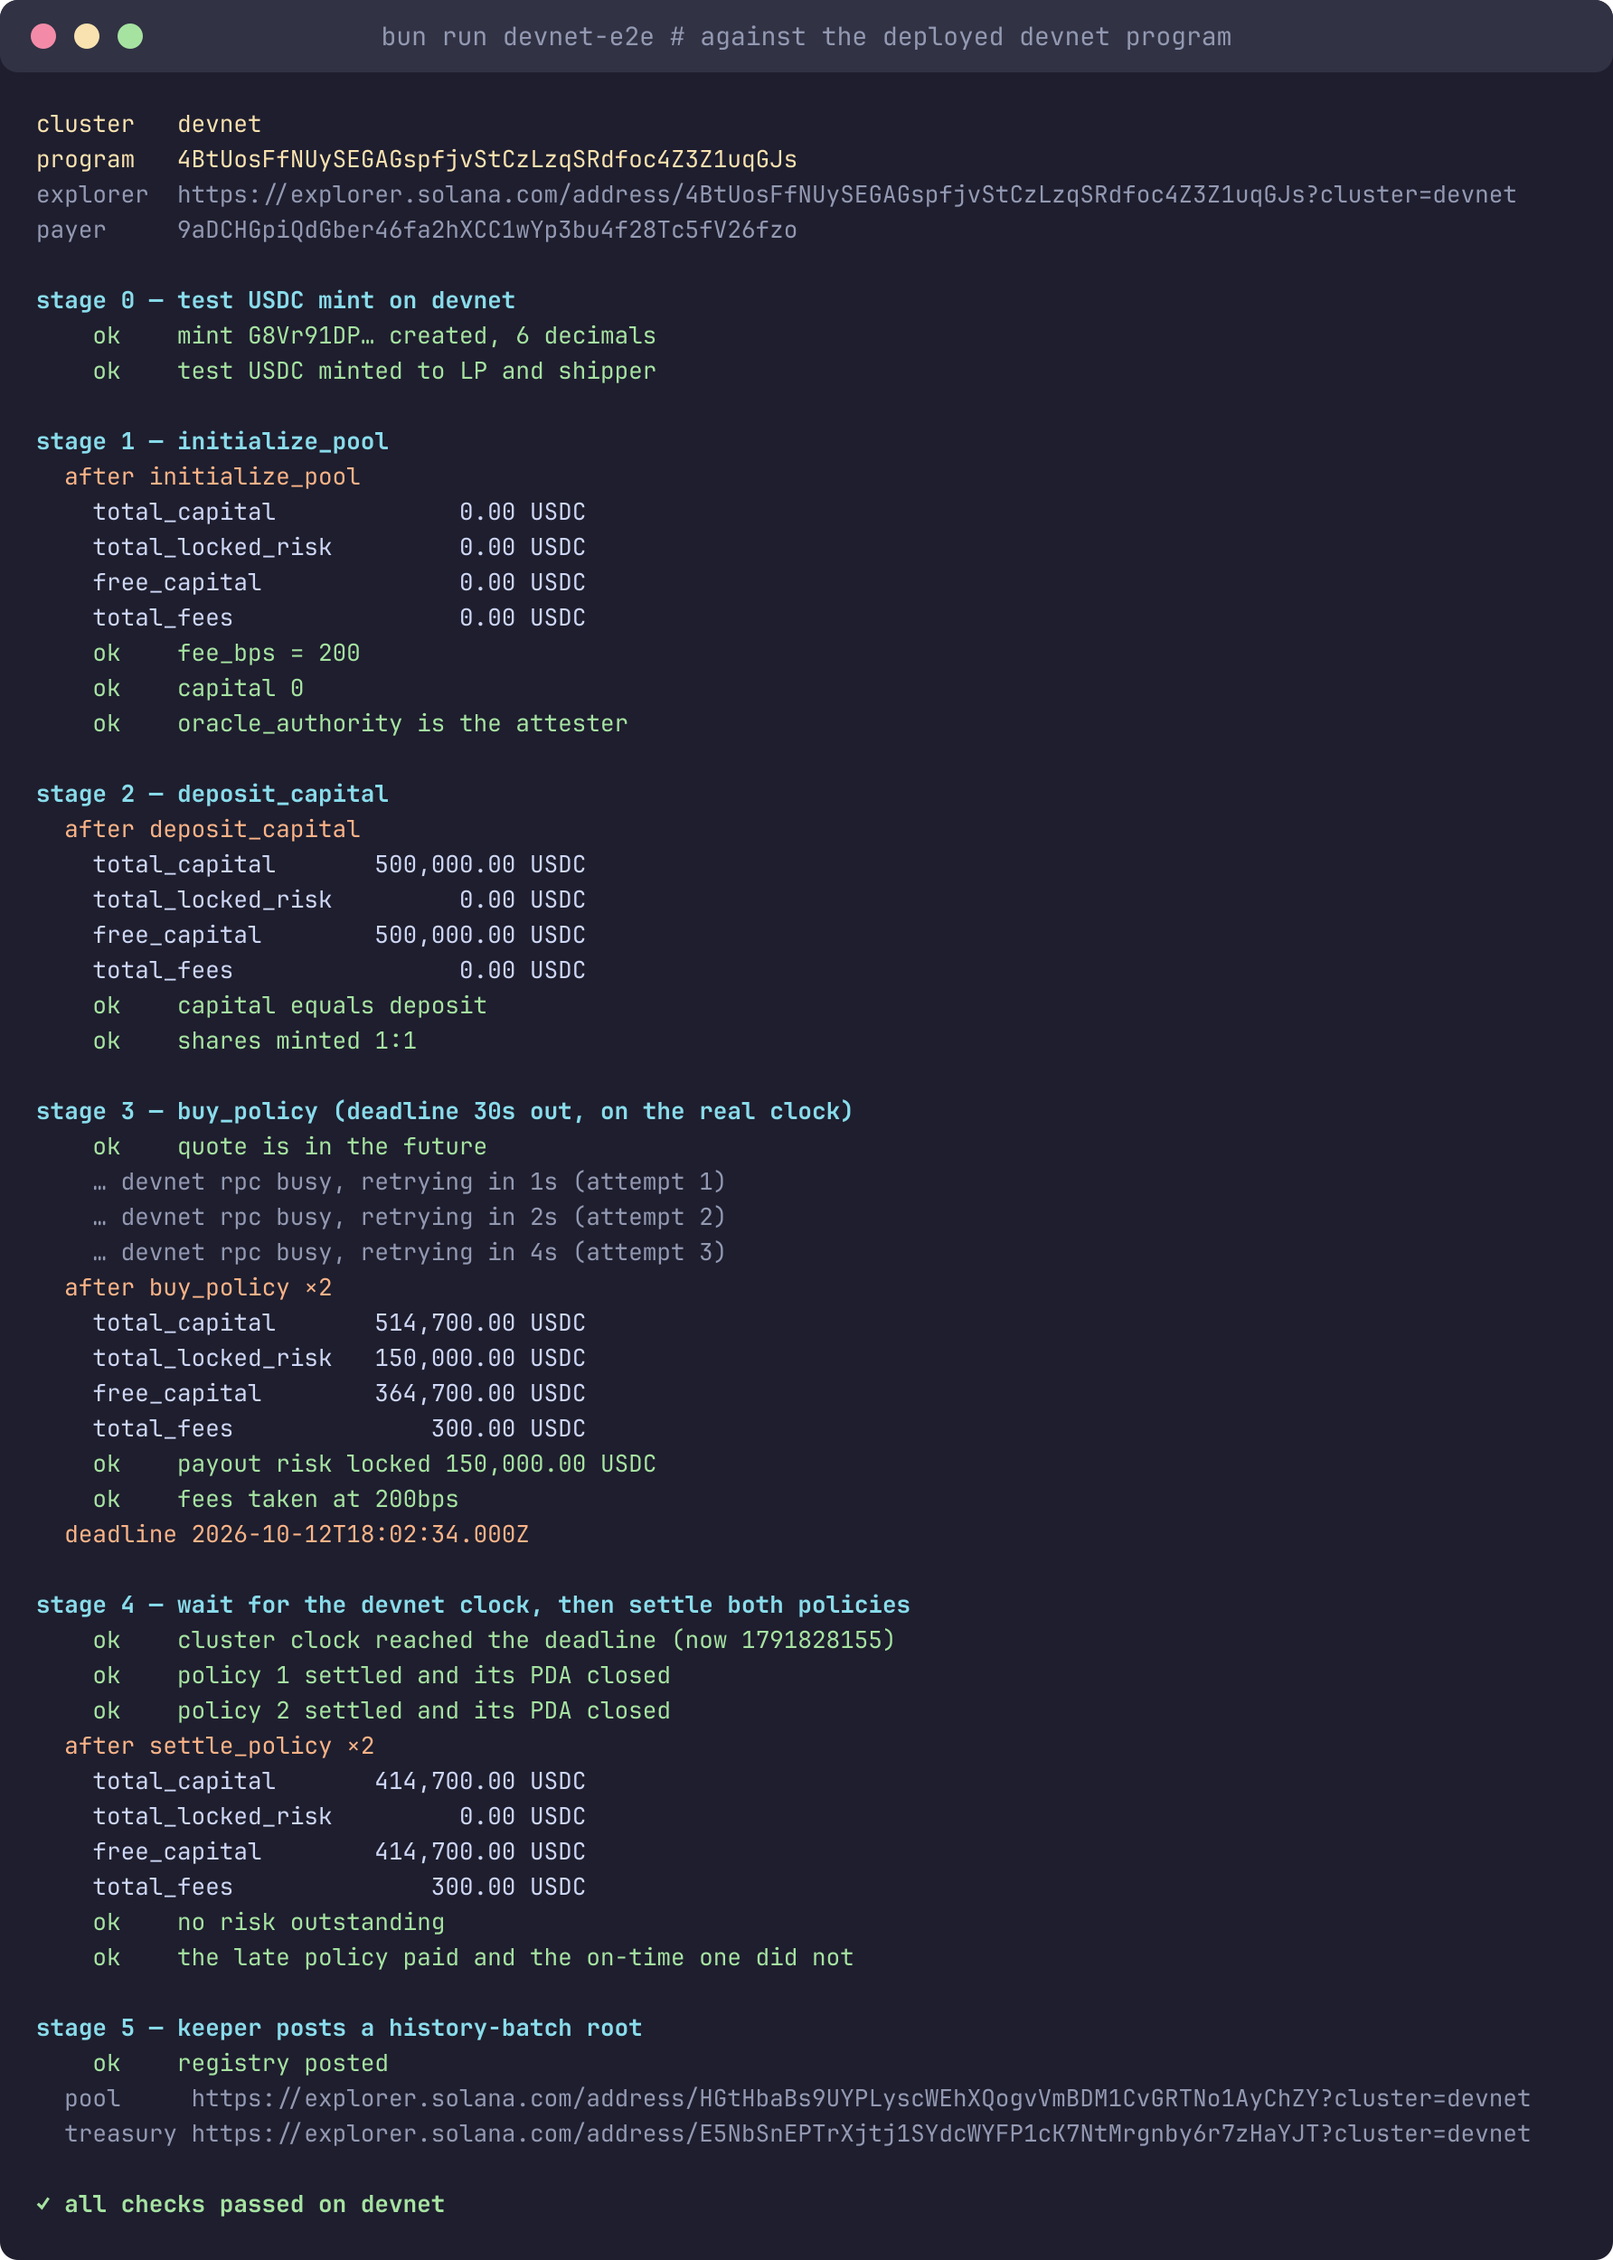
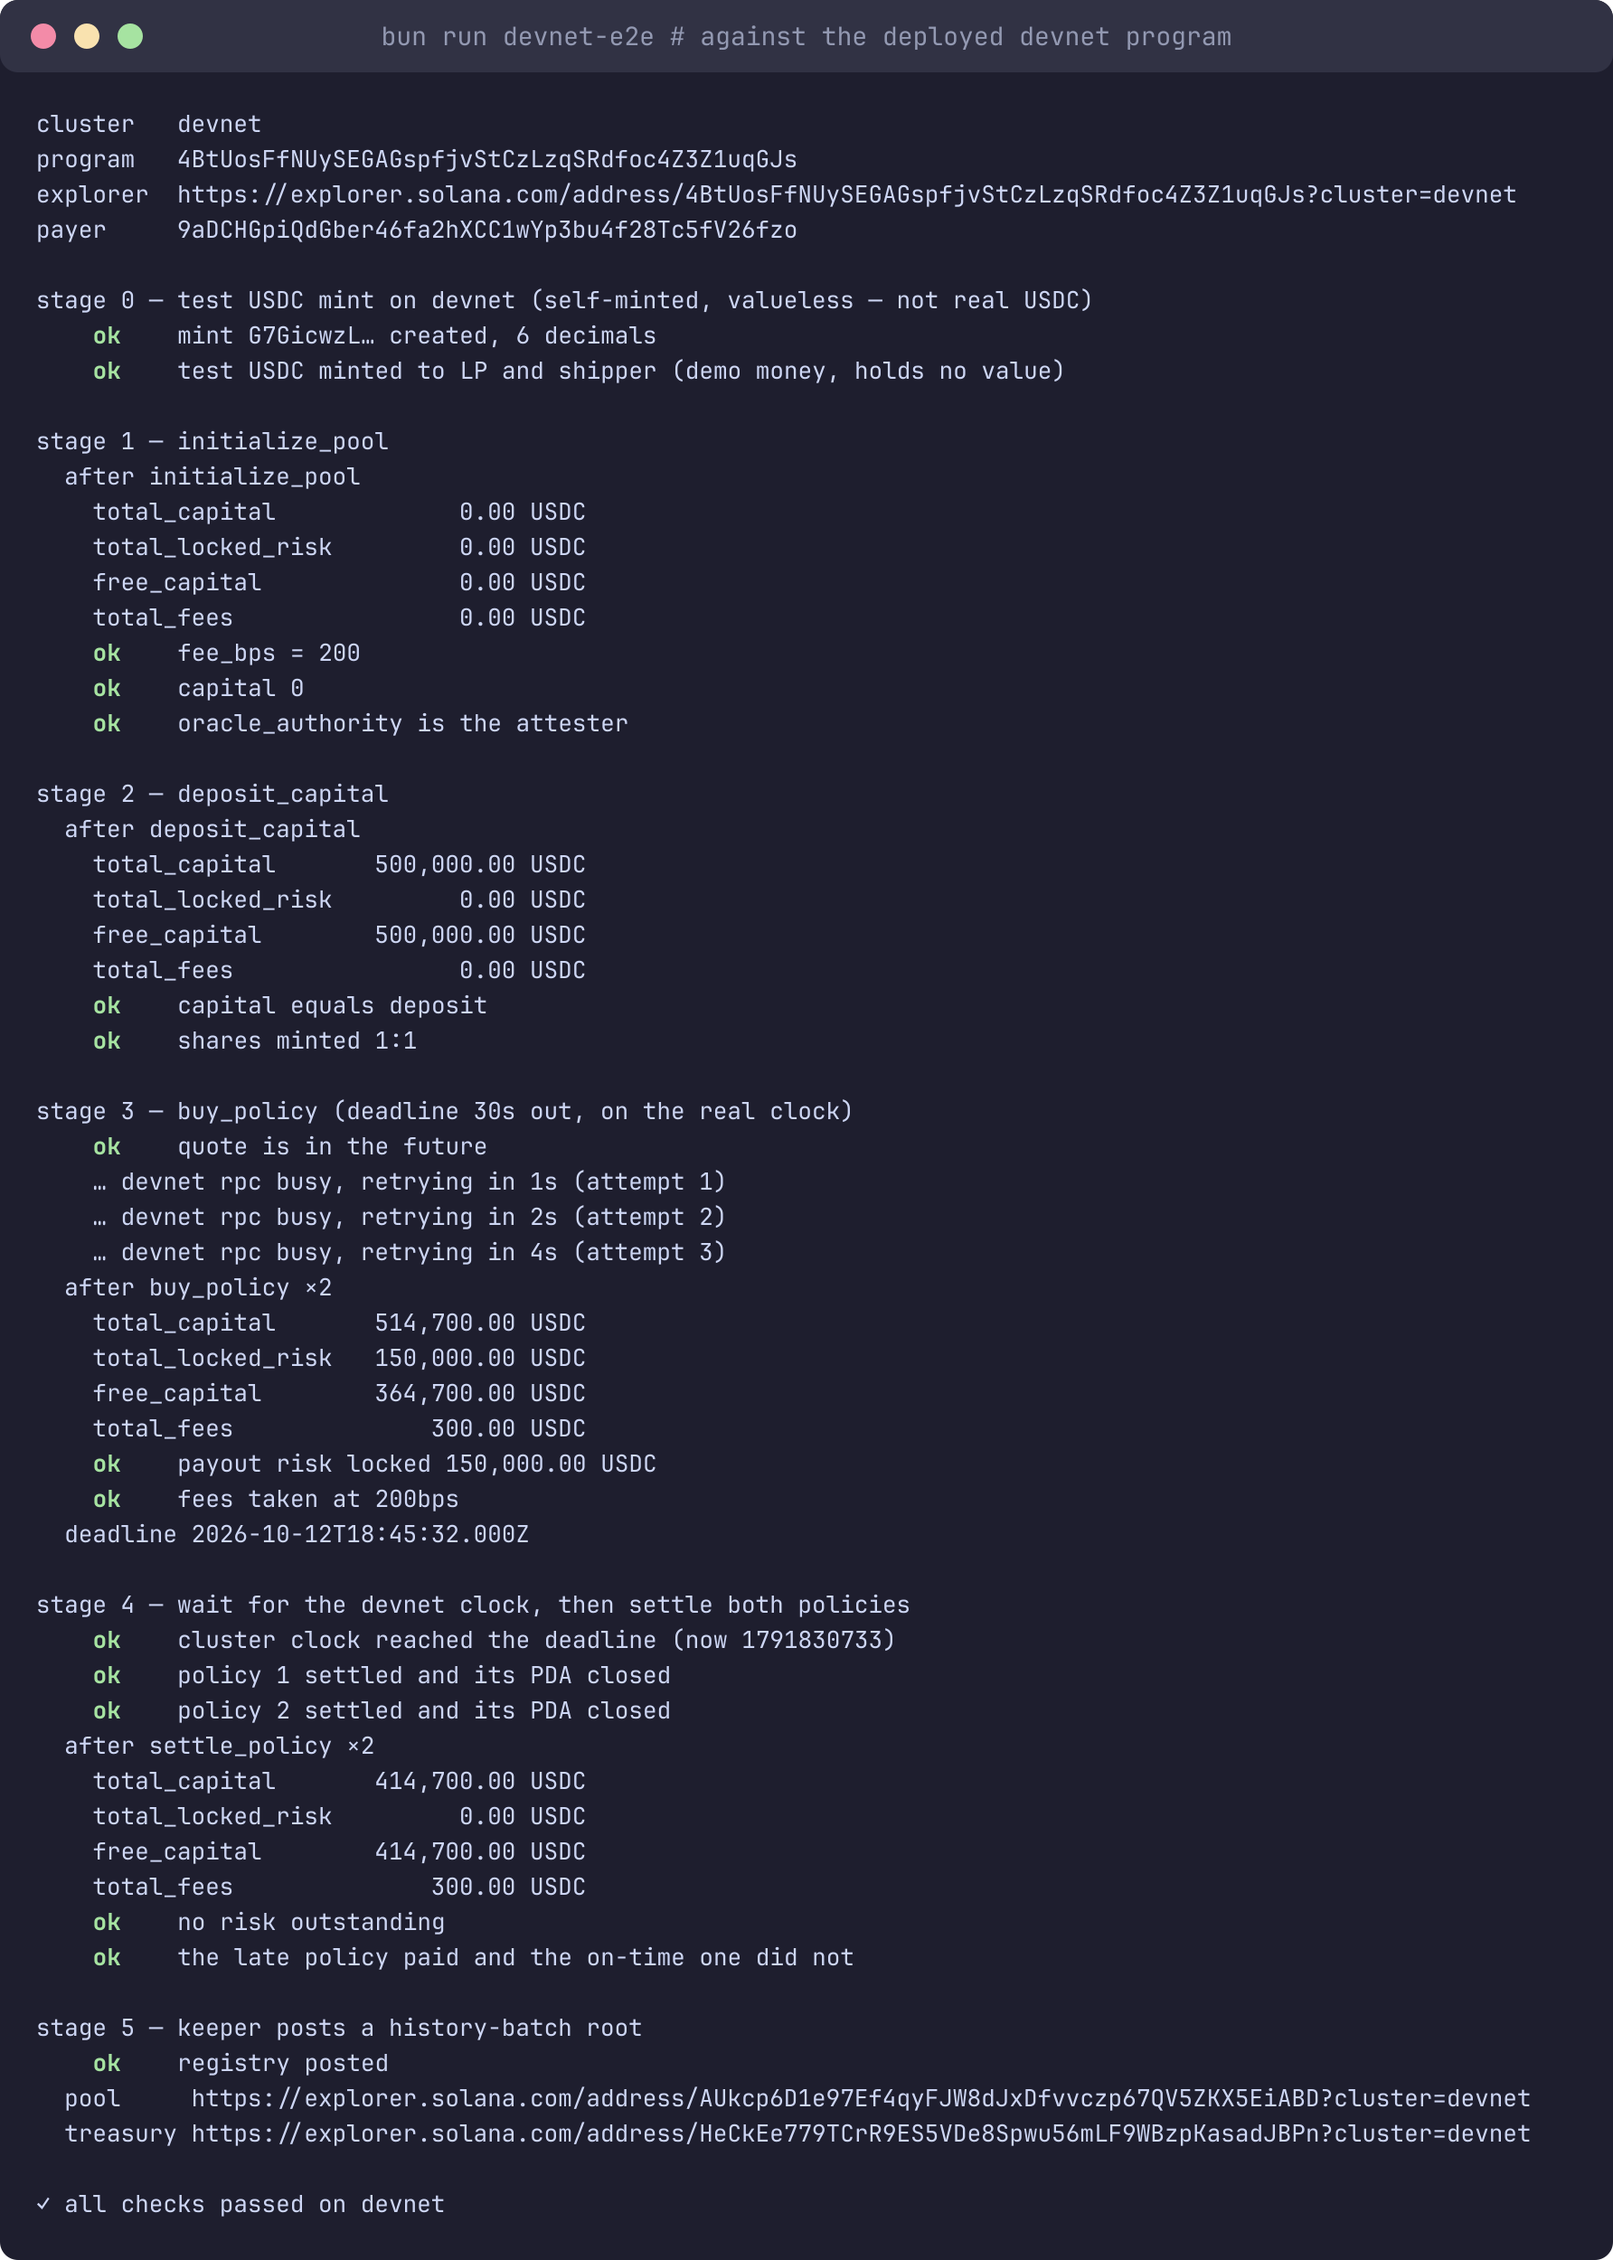
docs(freight-delay): state that the devnet demo mints its own test tokens (CHA-38)

diff --git a/freight_delay/scripts/devnet-e2e.ts b/freight_delay/scripts/devnet-e2e.ts
@@ -12,6 +12,10 @@
  *   anchor deploy --provider.cluster devnet
  *   bun run devnet-e2e
  *
+ * The USDC in this run is demo money: a 6-decimal token the script mints for
+ * itself, with no value, no faucet and no relation to Circle's USDC. Every run
+ * creates a fresh mint, so no run touches anyone else's balances.
+ *
  * Env: DEVNET_KEYPAIR (default `~/.config/solana/id.json`) pays for everything.
  */
 
@@ -68,9 +72,15 @@ const explorer = (path: string) => `https://explorer.solana.com/${path}?cluster=
 
 let failures = 0;
 const check = (label: string, ok: boolean) => {
-  console.log(`    ${ok ? "ok  " : "FAIL"}  ${label}`);
+  console.log(`    ${ok ? green("ok  ") : red("FAIL")}  ${label}`);
   if (!ok) failures++;
 };
+const paint = (code: string, text: string) => `\x1b[${code}m${text}\x1b[0m`;
+const green = (t: string) => paint("32;1", t);
+const red = (t: string) => paint("31;1", t);
+const cyan = (t: string) => paint("36;1", t);
+const dim = (t: string) => paint("2", t);
+
 const usdc = (v: bigint) =>
   `${(Number(v) / 1e6).toLocaleString("en-US", { minimumFractionDigits: 2 })} USDC`;
 
@@ -91,16 +101,18 @@ const client = await createClient()
   .use(solanaDevnetRpc({ rpcUrl, maxConcurrency: 1 }));
 
 /** Sends with backoff: the public devnet RPC throttles bursts with HTTP 429, and a
- * refused request submits nothing, so a retry cannot double-apply. */
+ * throttled simulation surfaces as a failed compute-unit estimate. Either way nothing was
+ * submitted, so a retry cannot double-apply. */
 async function send(ixs: Parameters<typeof client.sendTransaction>[0]) {
   for (let attempt = 1; ; attempt++) {
     try {
       return await client.sendTransaction(ixs);
     } catch (e) {
       const message = String((e as Error)?.message ?? e);
-      if (!/429|Too Many Requests|rate limit/i.test(message) || attempt >= 8) throw e;
+      const transient = /429|Too Many Requests|rate limit|Failed to estimate the compute unit/i;
+      if (!transient.test(message) || attempt >= 8) throw e;
       const backoffMs = Math.min(20_000, 1_000 * 2 ** (attempt - 1));
-      console.log(`    … devnet rpc busy, retrying in ${backoffMs / 1000}s (attempt ${attempt})`);
+      console.log(dim(`    … devnet rpc busy, retrying in ${backoffMs / 1000}s (attempt ${attempt})`));
       await new Promise((resolve) => setTimeout(resolve, backoffMs));
     }
   }
@@ -159,7 +171,7 @@ const h: Harness = { client, programId, admin, usdcMint: usdcMint.address, confi
 
 // -------------------------------------------------------------------- stage 0
 
-console.log("\nstage 0 — test USDC mint on devnet");
+console.log(cyan("\nstage 0 — test USDC mint on devnet (self-minted, valueless — not real USDC)"));
 await send([
   getCreateAccountInstruction({
     payer: admin,
@@ -191,11 +203,11 @@ for (const [who, amount] of [
   });
   await send(flattenInstructionPlan(plan));
 }
-check("test USDC minted to LP and shipper", true);
+check("test USDC minted to LP and shipper (demo money, holds no value)", true);
 
 // -------------------------------------------------------------------- stage 1
 
-console.log("\nstage 1 — initialize_pool");
+console.log(cyan("\nstage 1 — initialize_pool"));
 await send([initializePool(h, FEE_BPS, attester, admin.address)]);
 let pool = await readPool(h);
 report("after initialize_pool", pool);
@@ -205,7 +217,7 @@ check("oracle_authority is the attester", pool.oracleAuthority === ATTESTER_ADDR
 
 // -------------------------------------------------------------------- stage 2
 
-console.log("\nstage 2 — deposit_capital");
+console.log(cyan("\nstage 2 — deposit_capital"));
 await send([await depositCapital(h, lp, DEPOSIT)]);
 pool = await readPool(h);
 report("after deposit_capital", pool);
@@ -214,7 +226,7 @@ check("shares minted 1:1", pool.totalShares === DEPOSIT);
 
 // -------------------------------------------------------------------- stage 3
 
-console.log("\nstage 3 — buy_policy (deadline 30s out, on the real clock)");
+console.log(cyan("\nstage 3 — buy_policy (deadline 30s out, on the real clock)"));
 const expectedDelivery = (await chainNow()) + QUOTE_AHEAD;
 const deadline = expectedDelivery;
 check("quote is in the future", expectedDelivery > (await chainNow()));
@@ -246,7 +258,7 @@ console.log(`  deadline ${new Date(Number(deadline) * 1000).toISOString()}`);
 
 // -------------------------------------------------------------------- stage 4
 
-console.log("\nstage 4 — wait for the devnet clock, then settle both policies");
+console.log(cyan("\nstage 4 — wait for the devnet clock, then settle both policies"));
 const reached = await waitForClock(deadline);
 check(`cluster clock reached the deadline (now ${reached})`, reached >= deadline);
 
@@ -283,7 +295,7 @@ check(
 
 // -------------------------------------------------------------------- stage 5
 
-console.log("\nstage 5 — keeper posts a history-batch root");
+console.log(cyan("\nstage 5 — keeper posts a history-batch root"));
 const root = new Uint8Array(32).fill(0xab);
 await send([await postRoot(h, admin, 1n, root, 2n)]);
 const registry = await client.rpc.getAccountInfo(await registryPda(programId, config, 1n)).send();
@@ -291,5 +303,5 @@ check("registry posted", registry.value !== null);
 console.log(`  pool     ${explorer(`address/${config}`)}`);
 console.log(`  treasury ${explorer(`address/${treasury}`)}`);
 
-console.log(failures === 0 ? "\n✓ all checks passed on devnet" : `\n✗ ${failures} check(s) FAILED`);
+console.log(failures === 0 ? green("\n✓ all checks passed on devnet") : red(`\n✗ ${failures} check(s) FAILED`));
 process.exit(failures === 0 ? 0 : 1);

diff --git a/docs/freight_delay/introduction/scope.md b/docs/freight_delay/introduction/scope.md
@@ -89,6 +89,11 @@ reuses the checked-in program keypair, localnet and devnet derive identical
 addresses; `Anchor.toml` defaults to `localnet`, so a devnet deploy passes
 `--provider.cluster devnet` explicitly.
 
+The devnet walkthrough (`freight_delay/scripts/devnet-e2e.ts`) is the only code here
+that spends anything, and it spends nothing of value: it creates its own 6-decimal SPL
+token, mints it to itself, and drives the pool with it. That token is not USDC and holds
+no value; the program's only requirement on a mint is `decimals == 6`.
+
 Test coverage is 38 tests: 31 LiteSVM integration tests and 7 unit tests of the
 ed25519 precompile parsing. The integration suite covers the happy path of every
 instruction, the rejection cases, and one regression per finding from the

diff --git a/README.md b/README.md
@@ -57,6 +57,13 @@ a real cluster, with real fees, real confirmation and the real clock — there i
 time travel on devnet, so it buys a policy whose deadline is seconds away and
 waits for the chain clock to pass it.
 
+**The USDC in the devnet run is demo money.** The script creates its own 6-decimal
+SPL token and mints it to itself — it is not Circle's USDC, it came from no faucet,
+and it is worth nothing. Each run uses a fresh mint, so the pool address differs
+every time and no real balance is touched. The program is indifferent to which mint
+it is given, apart from its decimals: the only mint property the program checks is
+`decimals == 6`.
+
 ## Architecture
 
 One program, six instructions, four PDAs and one token account. Nothing else is

diff --git a/freight_delay/README.md b/freight_delay/README.md
@@ -123,6 +123,11 @@ is.
 
 ![Devnet end-to-end run: all checks passed](assets/devnet-e2e.webp)
 
+The USDC in the devnet run is **demo money**: `scripts/devnet-e2e.ts` creates its own
+6-decimal SPL token and mints it to itself. It is not Circle's USDC, it came from no
+faucet, and it holds no value — a fresh mint per run, so no real balance is touched. The
+program checks only the mint's decimals (`decimals == 6`), nothing about its issuer.
+
 `cargo nextest run` drives the built `.so` in-process through LiteSVM, so it covers
 every guard and every rejection path without paying fees. `bun run devnet-e2e`
 (`scripts/devnet-e2e.ts`) proves the *deployed* binary on devnet end to end:
